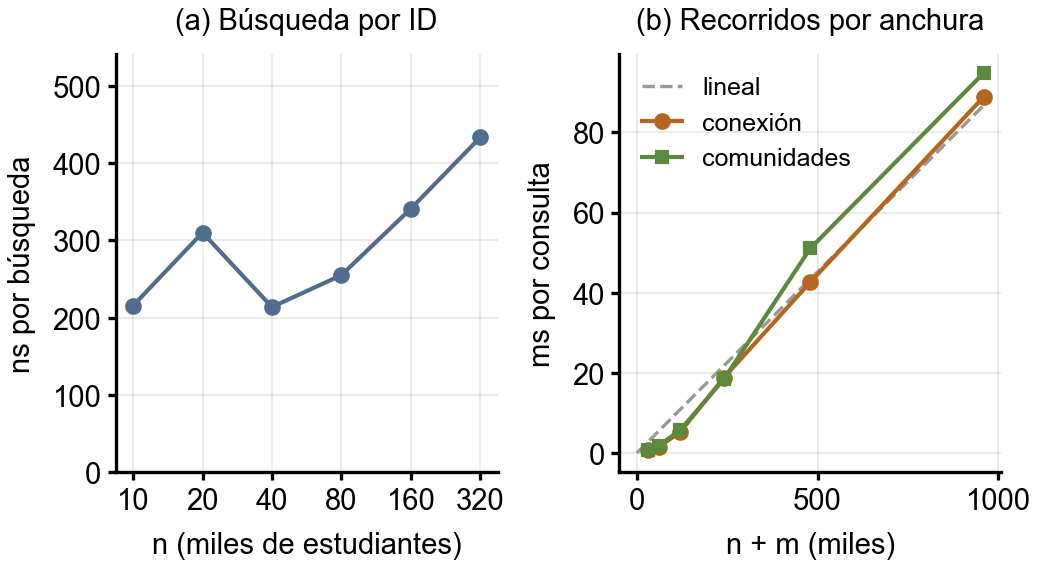
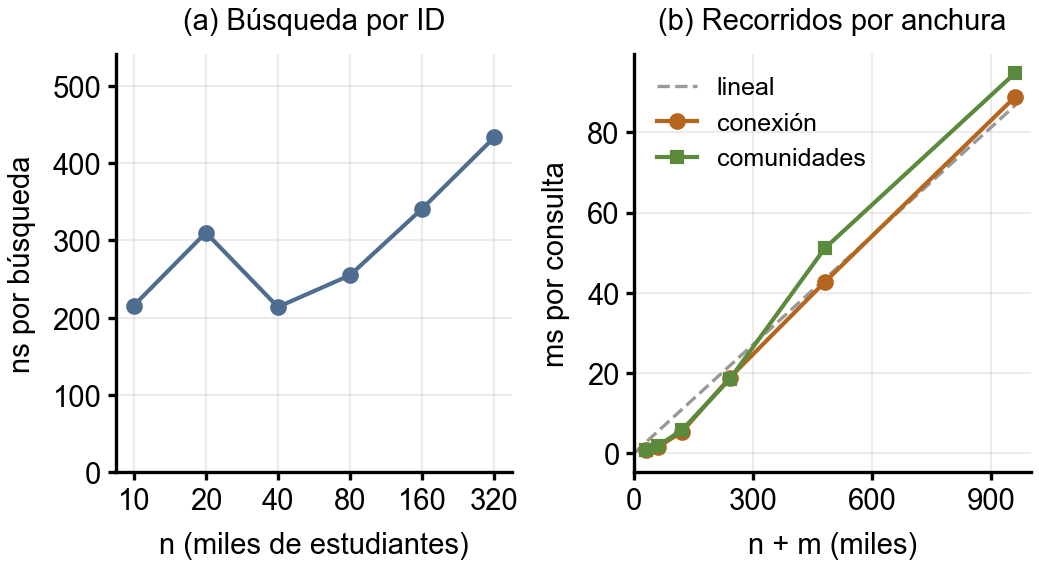
Gráfica de mediciones: eje de n + m sin cortar la última etiqueta

diff --git a/mediciones/graficar.py b/mediciones/graficar.py
@@ -36,6 +36,8 @@ pendiente = sum(x * y for x, y in zip(nm, conexion)) / sum(x * x for x in nm)
 der.plot([0, max(nm)], [0, pendiente * max(nm)], "--", color="#999999", lw=0.8, label="lineal")
 der.plot(nm, conexion, "o-", color="#B5651D", ms=3, lw=1, label="conexión")
 der.plot(nm, comunidades, "s-", color="#5B8A3C", ms=2.6, lw=1, label="comunidades")
+der.set_xticks([0, 300, 600, 900])
+der.set_xlim(0, max(nm) * 1.04)
 der.set_xlabel("n + m (miles)")
 der.set_ylabel("ms por consulta")
 der.set_title("(b) Recorridos por anchura", fontsize=7)
